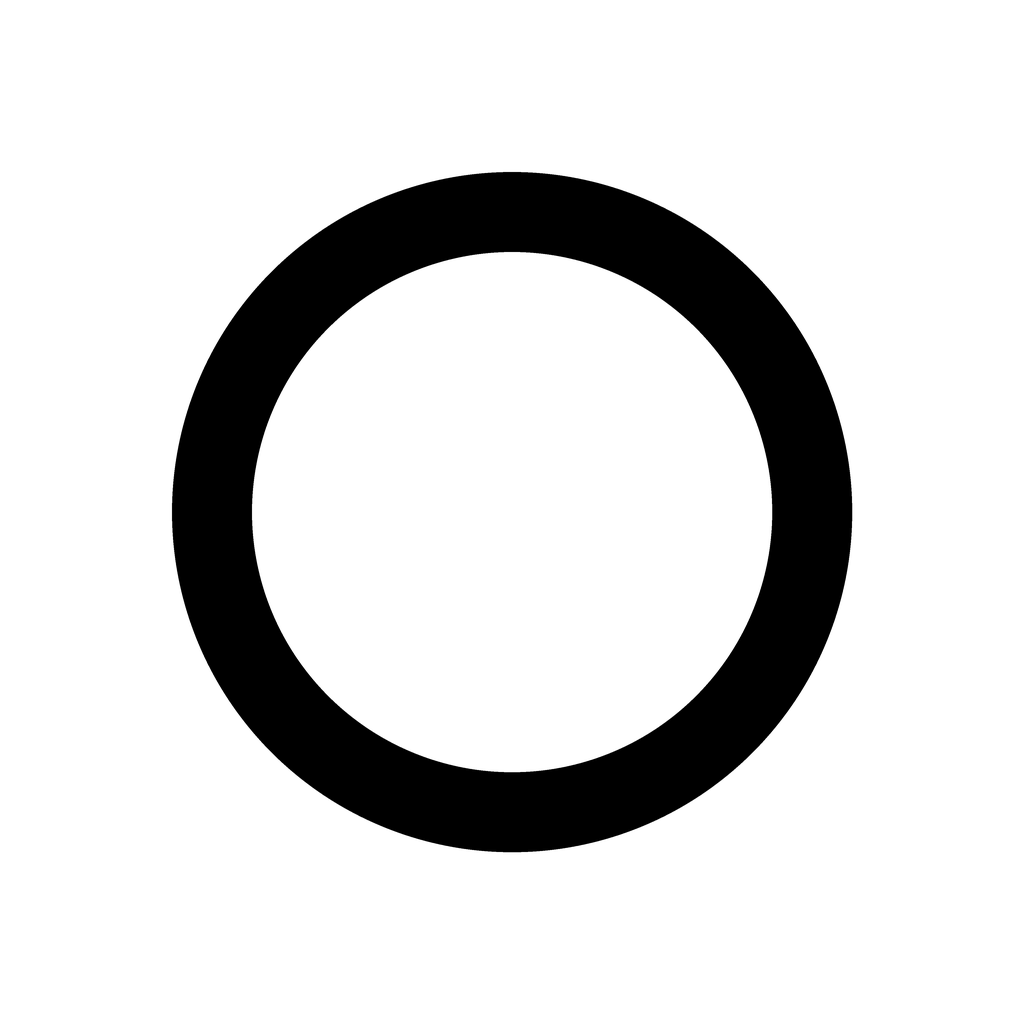
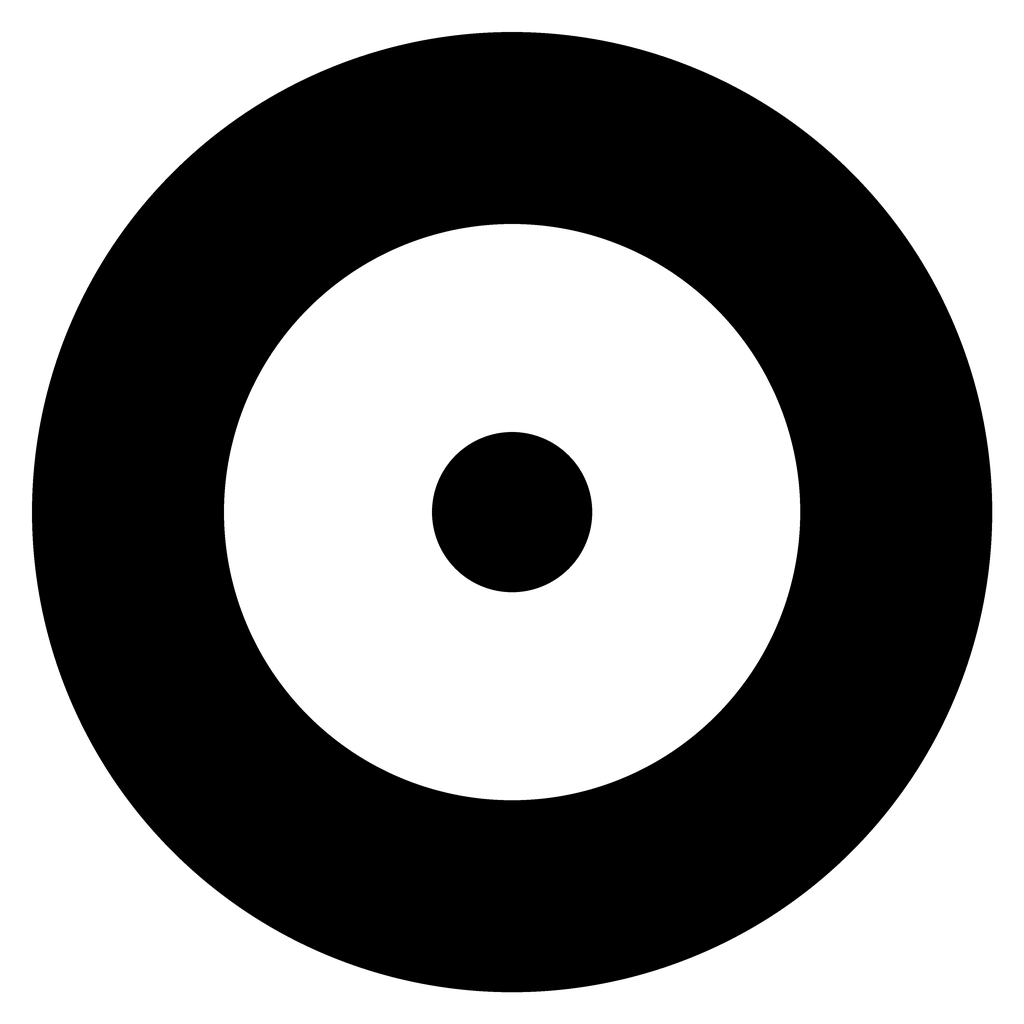
Hub becomes the dictation UI with live waveform (no separate pill); bolder white menu-bar glyph

diff --git a/Sources/Halo/Wheel/WheelController.swift b/Sources/Halo/Wheel/WheelController.swift
@@ -18,6 +18,9 @@ final class WheelController {
     var canRecord: () -> Bool = { false }
     var onCenterHold: () -> Void = {}      // push-to-talk: start recording
     var onCenterRelease: () -> Void = {}   // push-to-talk: send · hands-free: start session
+    var levelProvider: () -> Float = { 0 } // current mic level for the waveform
+
+    private var levelTimer: Timer?
 
     private let model = WheelModel()
     private var panel: NSPanel?
@@ -52,26 +55,26 @@ final class WheelController {
     }
 
     func release() {
-        if model.recording {                  // push-to-talk: release sends
+        if model.recording {                  // push-to-talk: release sends (hub stays for transcribing)
             onCenterRelease()
-            dismiss()
             return
         }
         let wedge = model.inWedge
         let atRoot = stack.count == 1
         let spoke = model.highlighted.flatMap { current.spokes.indices.contains($0) ? current.spokes[$0] : nil }
-        dismiss()
-        if let spoke {
-            if case .performs(let action) = spoke.content { ActionRunner.run(action) }
-        } else if !wedge && atRoot && canRecord() && voiceMode() == .handsFree {
-            onCenterRelease()                  // hands-free: start a dictation session
+        if spoke == nil, !wedge, atRoot, canRecord(), voiceMode() == .handsFree {
+            onCenterRelease()                  // hands-free: start a session (hub stays up)
+            return
         }
+        dismiss()
+        if let spoke, case .performs(let action) = spoke.content { ActionRunner.run(action) }
     }
 
     func dismiss() {
         tracker?.invalidate(); tracker = nil
+        stopLevelTimer()
         dwell = .none; dwellFrames = 0
-        model.recording = false; model.modelLoading = false
+        model.recording = false; model.transcribing = false; model.modelLoading = false
         model.collapseID += 1
         hideToken += 1
         let token = hideToken
@@ -80,8 +83,46 @@ final class WheelController {
             self.panel?.orderOut(nil)
             self.stack = []
             self.model.highlighted = nil; self.model.inWedge = false
+            self.model.levels = []
         }
     }
+
+    // MARK: - Voice session (the hub *is* the recording UI — no separate pill)
+
+    /// Hands-free: keep the hub on screen as the live recording UI.
+    func beginVoiceSession() {
+        hideToken += 1                          // cancel any pending hide
+        tracker?.invalidate(); tracker = nil
+        model.highlighted = nil; model.inWedge = false; model.modelLoading = false
+        model.transcribing = false
+        model.recording = true
+        model.levels = []
+        startLevelTimer()
+    }
+
+    /// Recording stopped — show transcribing in the hub until it completes.
+    func markTranscribing() {
+        stopLevelTimer()
+        model.recording = false
+        model.transcribing = true
+    }
+
+    /// Session finished — collapse the hub away.
+    func endVoiceSession() {
+        model.transcribing = false
+        dismiss()
+    }
+
+    private func startLevelTimer() {
+        levelTimer?.invalidate()
+        levelTimer = Timer.scheduledTimer(withTimeInterval: 1.0 / 30.0, repeats: true) { [weak self] _ in
+            guard let self else { return }
+            self.model.levels.append(self.levelProvider())
+            if self.model.levels.count > 48 { self.model.levels.removeFirst(self.model.levels.count - 48) }
+        }
+    }
+
+    private func stopLevelTimer() { levelTimer?.invalidate(); levelTimer = nil }
 
     // MARK: - Levels
 
@@ -95,7 +136,9 @@ final class WheelController {
         model.highlighted = nil
         model.inWedge = false
         model.recording = false
+        model.transcribing = false
         model.modelLoading = false
+        model.levels = []
         model.revealID += 1
     }
 
@@ -161,7 +204,7 @@ final class WheelController {
         switch target {
         case .well(let i):   expand(i)
         case .center:        pop()
-        case .recordCenter:  model.recording = true; onCenterHold()
+        case .recordCenter:  model.recording = true; model.levels = []; onCenterHold(); startLevelTimer()
         case .none:          break
         }
     }

diff --git a/Sources/Halo/Wheel/WheelView.swift b/Sources/Halo/Wheel/WheelView.swift
@@ -27,7 +27,7 @@ struct WheelView: View {
                 .opacity(Double(min(1, reveal * 1.6)))
                 .position(centerPoint)
 
-            if !model.recording {
+            if !model.recording && !model.transcribing {
                 ForEach(model.spokes) { spoke in
                     spokeView(spoke)
                         .scaleEffect(reveal)
@@ -65,11 +65,15 @@ struct WheelView: View {
 
     private var hubView: some View {
         let h = model.highlighted
-        return VStack(spacing: 4) {
+        return VStack(spacing: 5) {
             if model.recording {
-                Image(systemName: "waveform").font(.system(size: 21, weight: .semibold))
-                    .foregroundStyle(Color(red: 1.0, green: 0.35, blue: 0.45))
-                Text("Recording…").font(.system(size: 9, weight: .medium)).foregroundStyle(.white.opacity(0.7))
+                WaveformView(levels: model.levels, tint: Color(red: 1.0, green: 0.35, blue: 0.45))
+                    .frame(width: 72, height: 28)
+                Text("Listening…").font(.system(size: 9, weight: .medium)).foregroundStyle(.white.opacity(0.7))
+            } else if model.transcribing {
+                WaveformView(levels: model.levels, tint: .white.opacity(0.35))
+                    .frame(width: 72, height: 28)
+                Text("Transcribing…").font(.system(size: 9, weight: .medium)).foregroundStyle(.white.opacity(0.7))
             } else if model.modelLoading {
                 Image(systemName: "arrow.down.circle.dotted").font(.system(size: 20, weight: .semibold))
                 Text("Loading model…").font(.system(size: 9, weight: .medium)).foregroundStyle(.white.opacity(0.6))
@@ -110,5 +114,26 @@ struct WheelView: View {
         .shadow(color: .black.opacity(0.45), radius: isHot ? 14 : 7, y: 3)
         .scaleEffect(isHot ? 1.42 : 1)
         .zIndex(isHot ? 1 : 0)
+    }
+}
+
+/// A simple live waveform — recent mic levels (0…1) as centered rounded bars.
+struct WaveformView: View {
+    let levels: [Float]
+    var tint: Color = .white
+
+    var body: some View {
+        Canvas { ctx, size in
+            guard !levels.isEmpty else { return }
+            let count = levels.count
+            let slot = size.width / CGFloat(count)
+            let barW = max(1.2, slot * 0.55)
+            for (i, level) in levels.enumerated() {
+                let h = max(2, CGFloat(level) * size.height)
+                let x = CGFloat(i) * slot + (slot - barW) / 2
+                let rect = CGRect(x: x, y: (size.height - h) / 2, width: barW, height: h)
+                ctx.fill(Path(roundedRect: rect, cornerRadius: barW / 2), with: .color(tint))
+            }
+        }
     }
 }

diff --git a/Sources/Halo/App/HaloApp.swift b/Sources/Halo/App/HaloApp.swift
@@ -7,22 +7,13 @@ import AppKit
 struct HaloApp: App {
     @NSApplicationDelegateAdaptor(AppController.self) private var controller
 
-    /// Halo's branded menu-bar glyph — bigger, and tinted Halo purple (a fixed
-    /// color, so it's not auto-tinted black/white by macOS).
+    /// Halo's branded menu-bar glyph — a bold ring with a center dot, as a
+    /// template image (macOS tints it white/black to match the menu bar).
     private static let menuBarIcon: NSImage = {
-        guard let base = Bundle.module.url(forResource: "MenuBarIcon", withExtension: "png")
-            .flatMap({ NSImage(contentsOf: $0) }) else {
-            return NSImage(systemSymbolName: "circle", accessibilityDescription: "Halo")!
-        }
-        let size = NSSize(width: 22, height: 22)
-        let tint = NSColor(red: 0.62, green: 0.50, blue: 0.98, alpha: 1)   // Halo purple
-        let image = NSImage(size: size, flipped: false) { rect in
-            base.draw(in: rect.insetBy(dx: -5, dy: -5))   // scale the ring up, crop the padding
-            tint.set()
-            rect.fill(using: .sourceAtop)
-            return true
-        }
-        image.isTemplate = false
+        let image = Bundle.module.url(forResource: "MenuBarIcon", withExtension: "png")
+            .flatMap { NSImage(contentsOf: $0) } ?? NSImage(systemSymbolName: "circle", accessibilityDescription: "Halo")!
+        image.isTemplate = true
+        image.size = NSSize(width: 20, height: 20)
         return image
     }()
 

diff --git a/Sources/Halo/App/AppController.swift b/Sources/Halo/App/AppController.swift
@@ -9,7 +9,6 @@ final class AppController: NSObject, NSApplicationDelegate {
 
     private let wheel = WheelController()
     private let summon = Summon()
-    private let pill = PillController()
 
     /// A hands-free dictation session is active (started on center release; the
     /// next summon press stops it).
@@ -29,8 +28,9 @@ final class AppController: NSObject, NSApplicationDelegate {
         wheel.canRecord = { [weak self] in self?.voice.isReady ?? false }
         wheel.onCenterHold = { [weak self] in self?.voice.startRecording() }   // push-to-talk: start
         wheel.onCenterRelease = { [weak self] in self?.handleCenterRelease() }
+        wheel.levelProvider = { [weak self] in self?.voice.currentLevel() ?? 0 }
 
-        voice.onFinish = { [weak self] in self?.pill.hide() }
+        voice.onFinish = { [weak self] in self?.wheel.endVoiceSession() }
 
         summon.button = { [weak self] in self?.store.summonButton ?? 4 }
         summon.onPress = { [weak self] in
@@ -56,20 +56,24 @@ final class AppController: NSObject, NSApplicationDelegate {
     /// Center was released (hands-free) or push-to-talk hold ended — act per mode.
     private func handleCenterRelease() {
         switch store.config.voice.mode {
-        case .pushToTalk: voice.stopAndInject()
-        case .handsFree:  startListeningSession()
+        case .pushToTalk:
+            voice.stopAndInject()
+            wheel.markTranscribing()         // hub shows "Transcribing…" until done
+        case .handsFree:
+            startListeningSession()
         }
     }
 
     private func startListeningSession() {
         listening = true
-        pill.show(voice: voice, near: NSEvent.mouseLocation)
+        wheel.beginVoiceSession()            // hub stays up as the live recording UI
         voice.startRecording()
     }
 
     private func stopListeningSession() {
         listening = false
-        voice.stopAndInject()                // pill shows "Transcribing…" then hides via voice.onFinish
+        voice.stopAndInject()
+        wheel.markTranscribing()             // hub → "Transcribing…", hides on voice.onFinish
     }
 
     /// Summon + keystroke injection need Accessibility. Prompt once.

diff --git a/Sources/Halo/Voice/Voice.swift b/Sources/Halo/Voice/Voice.swift
@@ -81,6 +81,7 @@ final class Voice {
         ]
         do {
             let recorder = try AVAudioRecorder(url: url, settings: settings)
+            recorder.isMeteringEnabled = true
             recorder.record()
             self.recorder = recorder
             self.recordingURL = url
@@ -88,6 +89,15 @@ final class Voice {
         } catch {
             self.status = .failed(error.localizedDescription)
         }
+    }
+
+    /// Current mic loudness, 0…1 — for the live waveform. 0 when not recording.
+    func currentLevel() -> Float {
+        guard let recorder, recorder.isRecording else { return 0 }
+        recorder.updateMeters()
+        let db = recorder.averagePower(forChannel: 0)   // ~ -160 … 0 dBFS
+        let floor: Float = -55
+        return min(1, max(0, (db - floor) / -floor))
     }
 
     /// Discard the in-progress recording without transcribing.

diff --git a/Sources/Halo/Wheel/WheelModel.swift b/Sources/Halo/Wheel/WheelModel.swift
@@ -28,6 +28,10 @@ final class WheelModel {
     var collapseID = 0
     /// Center hovered but the voice model isn't ready yet.
     var modelLoading = false
-    /// Push-to-talk: holding at center is recording (drives the hub indicator).
+    /// A dictation session is active — the hub becomes the recording UI.
     var recording = false
+    /// Transcription is running (session winding down).
+    var transcribing = false
+    /// Recent mic levels (0…1) for the live waveform in the hub.
+    var levels: [Float] = []
 }